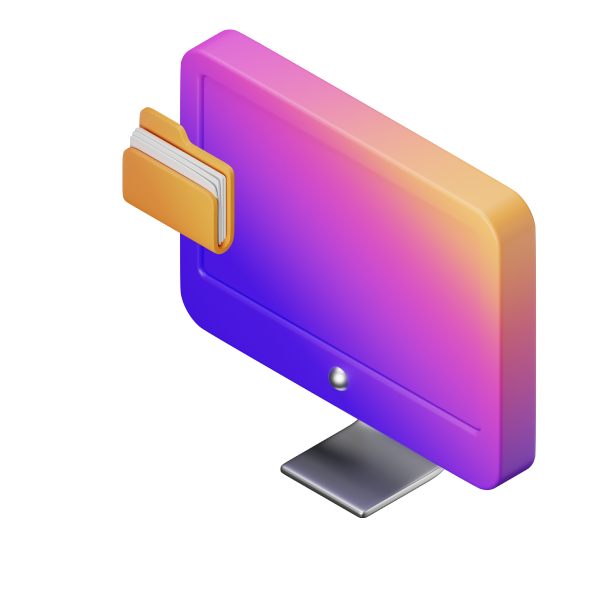
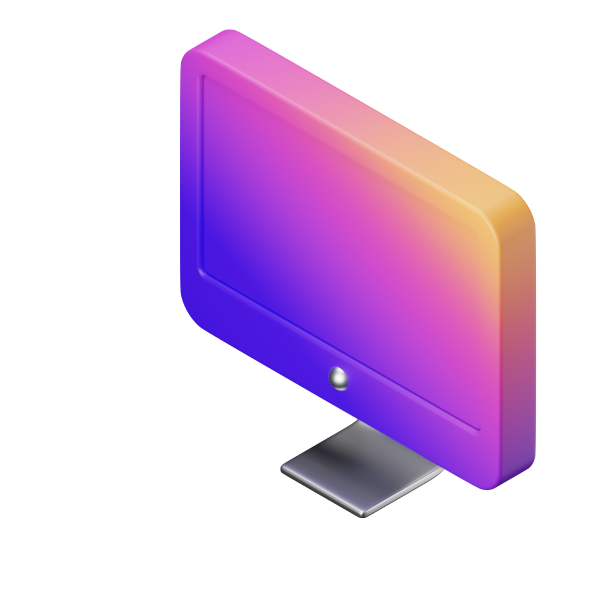
Create keyframe for animate folder in Header.js #23

Changed region(s): [[0.1869, 0.1557, 0.4049, 0.4361]]

diff --git a/src/styles/components/_header.scss b/src/styles/components/_header.scss
@@ -1,4 +1,5 @@
 .header-container {
+    position: relative;
     display: flex;
     justify-content: space-between;
     align-items: center;
@@ -38,4 +39,22 @@
     img {
         margin-right: -7rem;
     }
+    .folder {
+        position: absolute;
+        right: 32%;
+        top: 30%;
+        animation: float 4s ease-in-out infinite;
+    }
+}
+
+@keyframes float {
+	0% {
+		transform: translatey(0px);
+	}
+	50% {
+		transform: translatey(-20px);
+	}
+	100% {
+		transform: translatey(0px);
+	}
 }

diff --git a/src/components/Header.js b/src/components/Header.js
@@ -23,6 +23,7 @@ const Header = () => {
                 <button onClick={handleClick} className='btn'>Add figurine</button>
             </div>
             <img src="./img/illustrations-header.png" alt="Illustrations en 3D" />
+            <img className='folder' src="./img/folder.png" alt="Illustration of 3D folder" />
         </div>
     );
 }

diff --git a/src/components/FigurineItem.js b/src/components/FigurineItem.js
@@ -14,7 +14,7 @@ const FigurineItem = (props) => {
     return (
         <motion.div
             initial={{ opacity: 0, y: 100 }}
-            transition={{ delay: 0.5 }}
+            transition={{ delay: 1 }}
             whileInView={{ opacity: 1, y: 0 }}
             viewport={{ once: false }}
             className="card"
